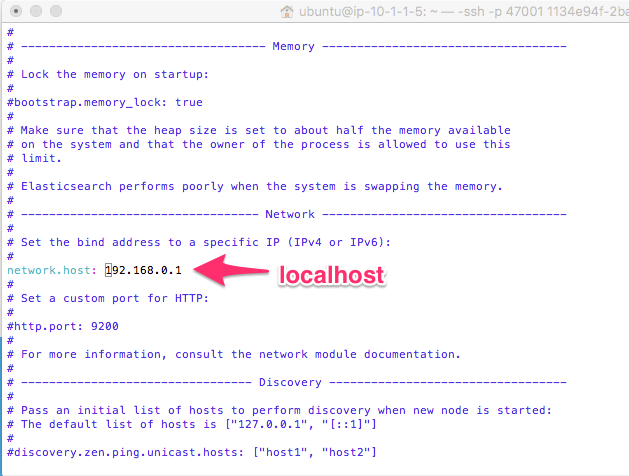
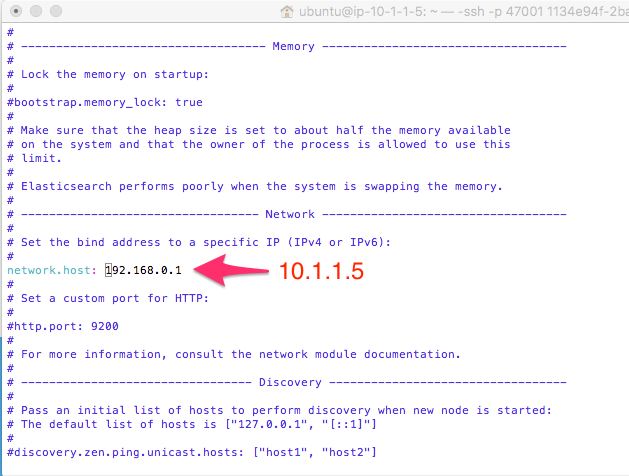
x

Changed region(s): [[0.4229, 0.5294, 0.6343, 0.6176]]

diff --git a/docs/class2/module1/lab4.rst b/docs/class2/module1/lab4.rst
@@ -143,21 +143,21 @@ Task 1 - Install Logstah
         output {
             if [type] == 'pem' {
               elasticsearch {
-              hosts => ["localhost:9200"]
+              hosts => ["10.1.1.5:9200"]
               index => "pem-%{+YYYY.MM.dd}"
               template_name => "pem"
             }
             }
             if [type] == 'afm' {
               elasticsearch {
-              hosts => ["localhost:9200"]
+              hosts => ["10.1.1.5:9200"]
               index => "afm-%{+YYYY.MM.dd}"
               template_name => "afm"
             }
             }
             if [type] == 'dns' {
               elasticsearch {
-              hosts => ["localhost:9200"]
+              hosts => ["10.1.1.5:9200"]
               index => "dns-%{+YYYY.MM.dd}"
               template_name => "dns"
             }

diff --git a/docs/class2/module1/lab2.rst b/docs/class2/module1/lab2.rst
@@ -38,7 +38,7 @@ Task 2 Install elasticseach and setup system
   sudo apt-get install elasticsearch
 
 
-#. Edit config file to change bind address
+#. Edit config file to change bind address to Host address 10.1.1.5
 
 .. code::
 	

diff --git a/docs/class2/module1/lab3.rst b/docs/class2/module1/lab3.rst
@@ -32,7 +32,7 @@ Task 1 Install Kibana
 
 	- server.port: 5601
 	- server.host: "10.1.1.5"
-	- elasticsearch.url: "http://localhost:9200"
+	- elasticsearch.url: "http://10.1.1.5:9200"
 
 |kibana1|
 
